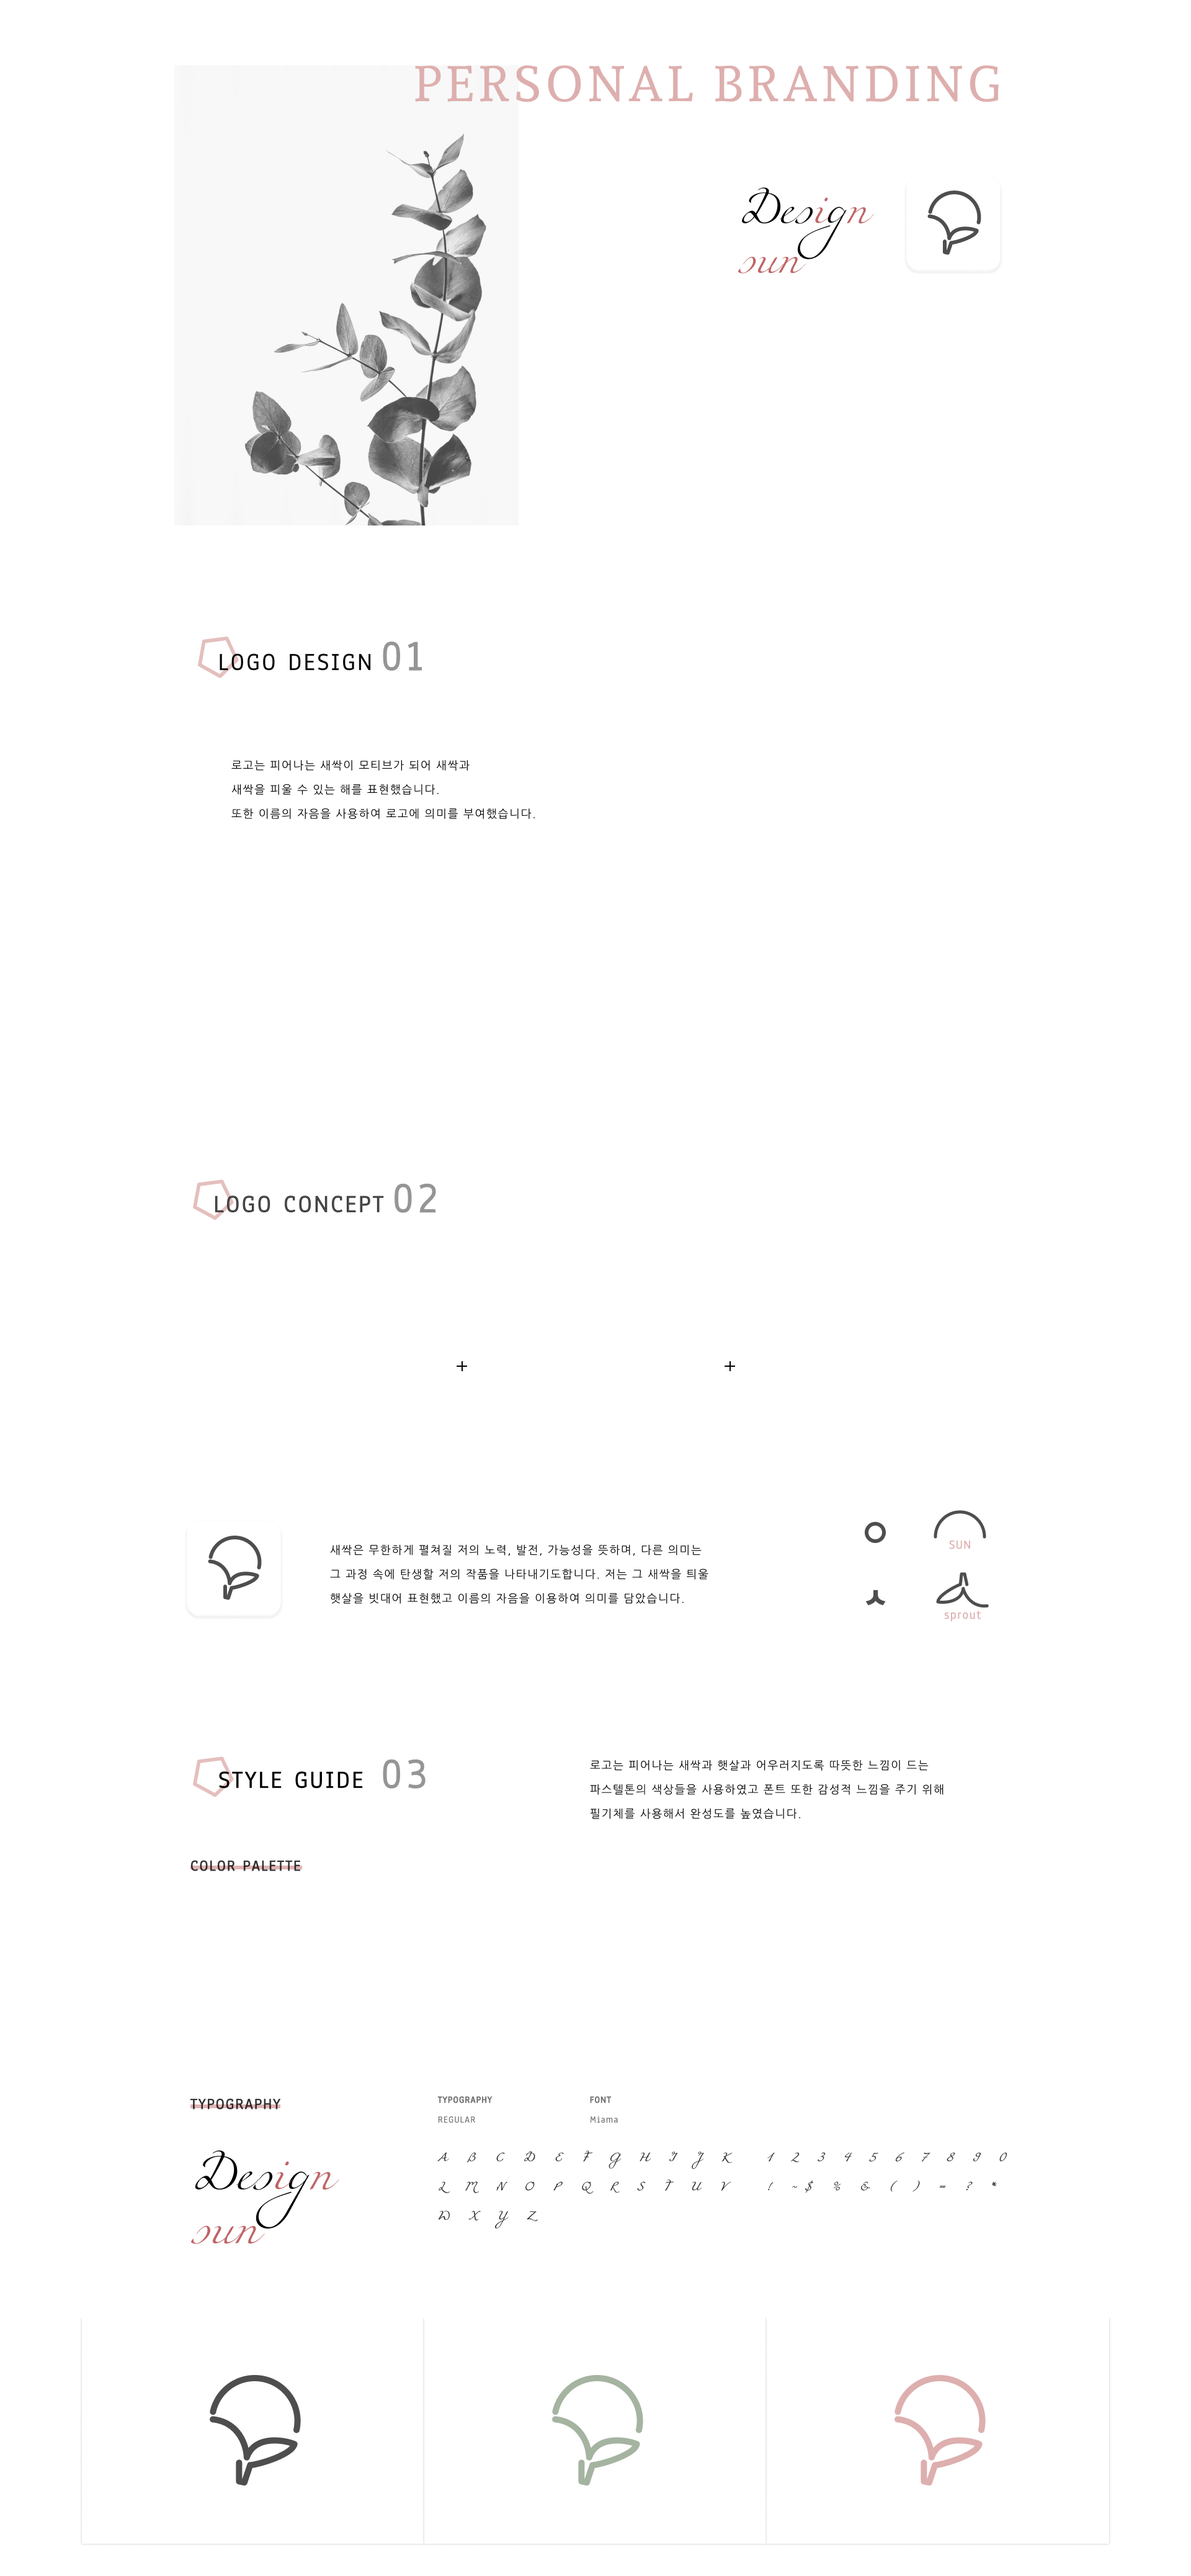
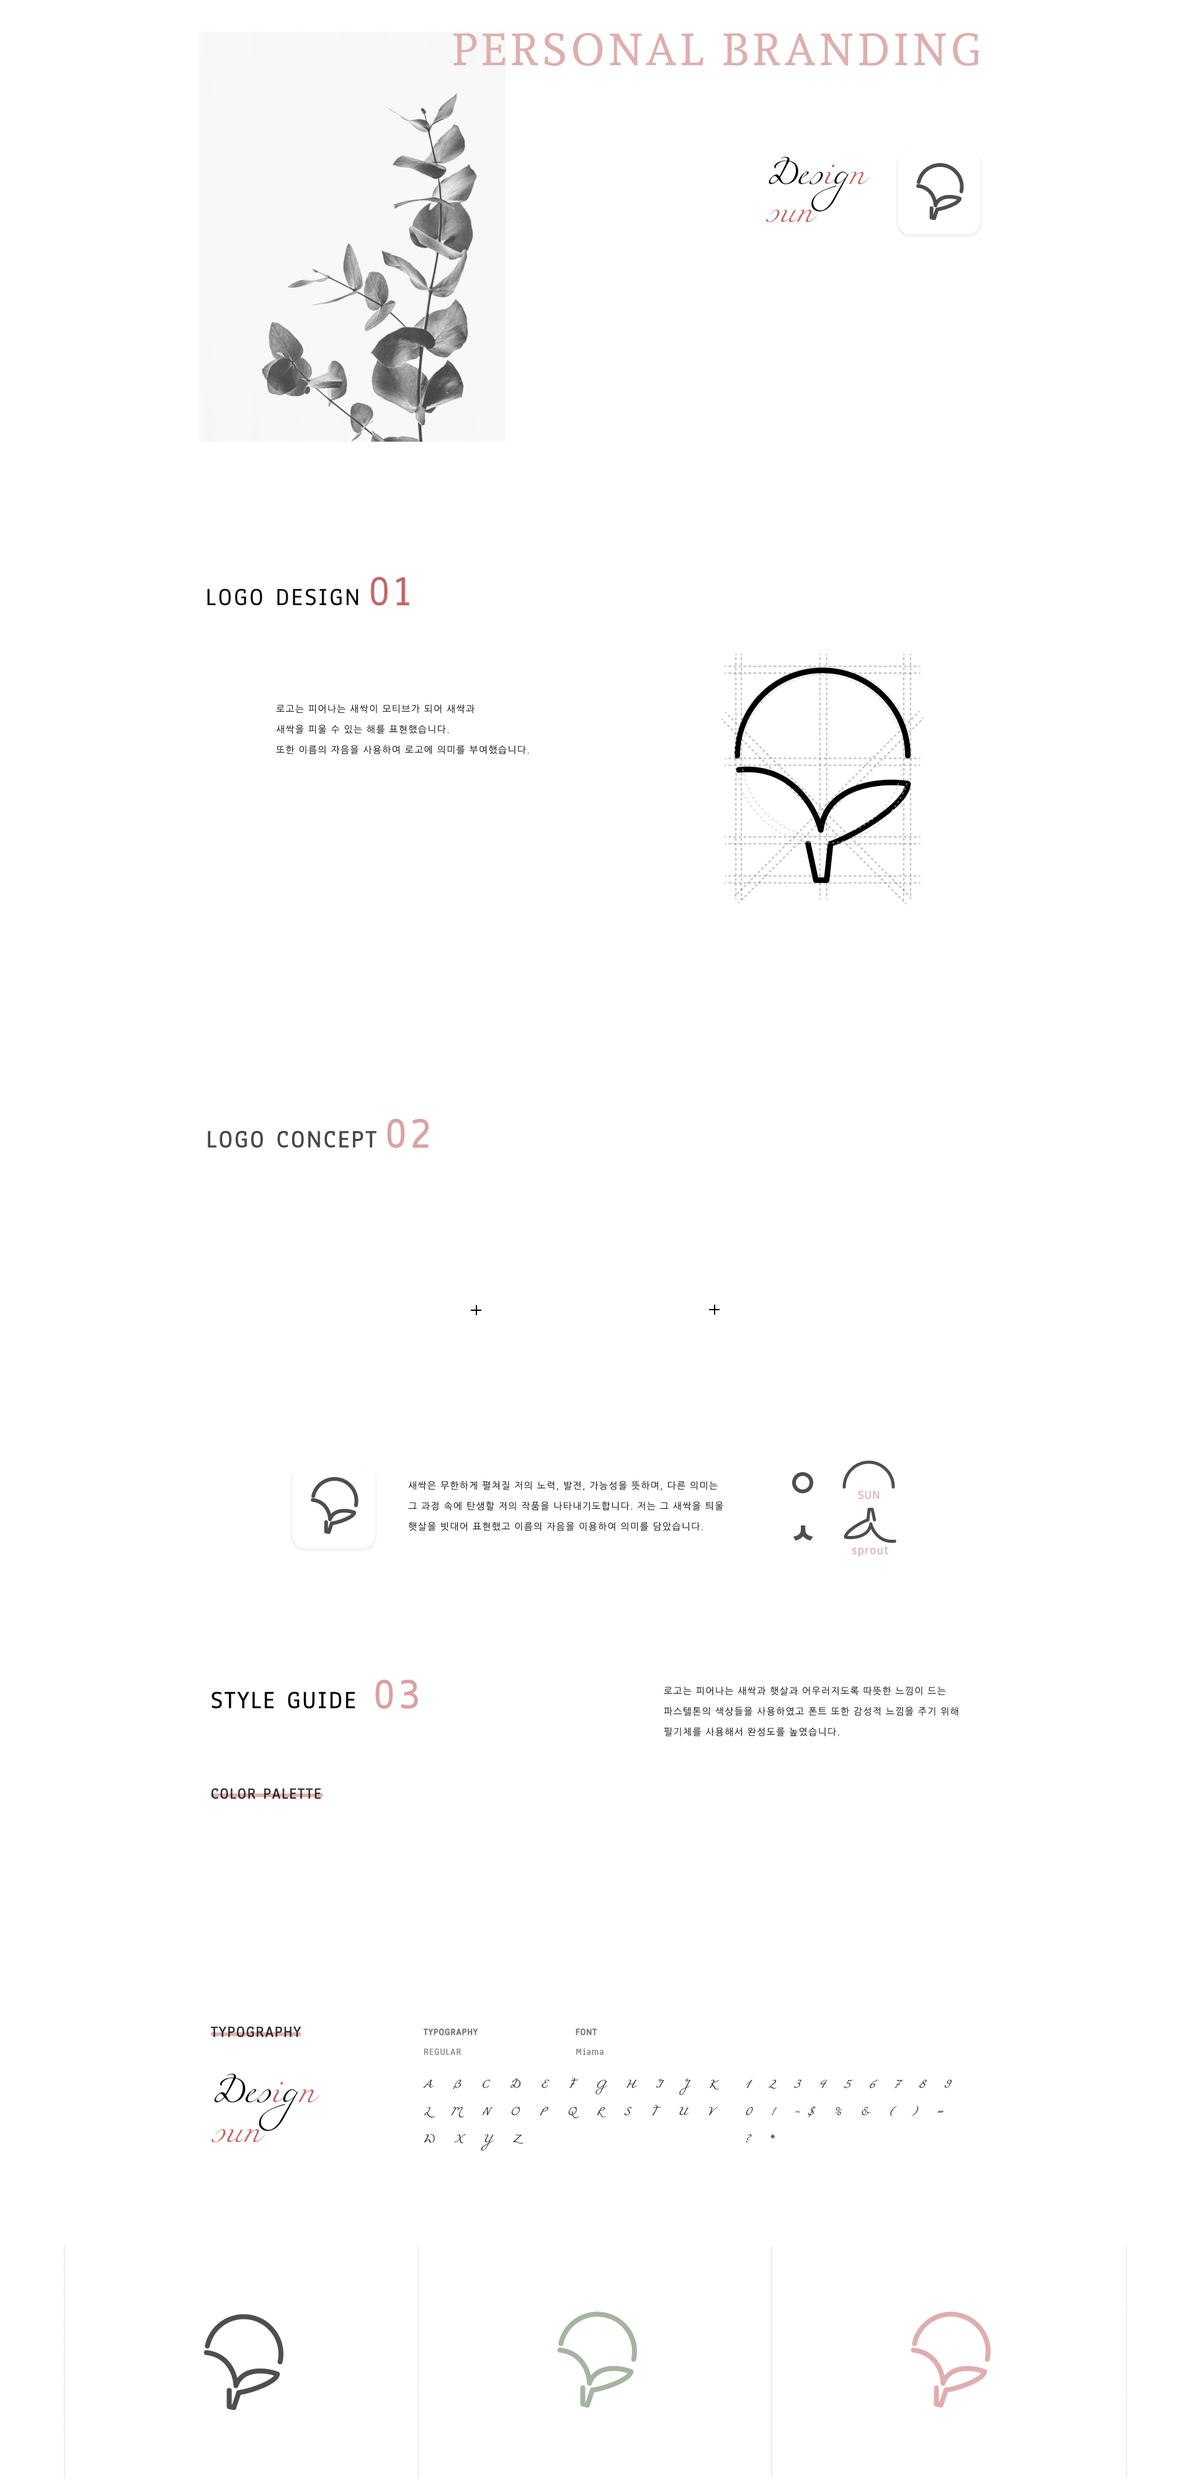
브랜드 수정

diff --git a/docs/js/index.js b/docs/js/index.js
@@ -119,7 +119,7 @@ function Play_AnimationInit() {
     duration: 1.1
   });
 
-  gsap.fromTo('.logo-sun, .logo-sprout, .logo-name', {
+  gsap.fromTo('.logo-sun', {
     opacity: 0,
     y: 70,
   }, {
@@ -132,6 +132,37 @@ function Play_AnimationInit() {
     },
     duration: 1
   });
+
+  gsap.fromTo('.logo-sprout', {
+    opacity: 0,
+    y: 70,
+  }, {
+    opacity: 1,
+    y: 0,
+    delay: 0.3,
+    scrollTrigger: {
+      trigger: '.BH-2',
+      start: '-10% 0%',
+      end: '100% 30%'
+    },
+    duration: 1
+  });
+
+  gsap.fromTo('.logo-name', {
+    opacity: 0,
+    y: 70,
+  }, {
+    opacity: 1,
+    y: 0,
+    delay: 0.6,
+    scrollTrigger: {
+      trigger: '.BH-2',
+      start: '-10% 0%',
+      end: '100% 30%'
+    },
+    duration: 1
+  });
+
 
   gsap.fromTo('.logo-color2', {
     opacity: 0,

diff --git a/js/index.js b/js/index.js
@@ -119,7 +119,7 @@ function Play_AnimationInit() {
     duration: 1.1
   });
 
-  gsap.fromTo('.logo-sun, .logo-sprout, .logo-name', {
+  gsap.fromTo('.logo-sun', {
     opacity: 0,
     y: 70,
   }, {
@@ -132,6 +132,37 @@ function Play_AnimationInit() {
     },
     duration: 1
   });
+
+  gsap.fromTo('.logo-sprout', {
+    opacity: 0,
+    y: 70,
+  }, {
+    opacity: 1,
+    y: 0,
+    delay: 0.3,
+    scrollTrigger: {
+      trigger: '.BH-2',
+      start: '-10% 0%',
+      end: '100% 30%'
+    },
+    duration: 1
+  });
+
+  gsap.fromTo('.logo-name', {
+    opacity: 0,
+    y: 70,
+  }, {
+    opacity: 1,
+    y: 0,
+    delay: 0.6,
+    scrollTrigger: {
+      trigger: '.BH-2',
+      start: '-10% 0%',
+      end: '100% 30%'
+    },
+    duration: 1
+  });
+
 
   gsap.fromTo('.logo-color2', {
     opacity: 0,

diff --git a/css/index.css b/css/index.css
@@ -867,52 +867,47 @@ footer {
 }
 
 .logo-write {
-  top: 16.6%;
+  top: 14.8%;
   left: 50%;
-  width: 30%;
-}
-
-.logo-ex {
-  top: 27%;
-  left: 62%;
-  width: 30%;
+  width: 25%;
 }
 
 .logo-ex1 {
-  top: 37%;
+  top: 34%;
   left: 17%;
-  width: 8%;
+  width: 7%;
   opacity: 0;
 }
 
 .logo-ex2 {
-  top: 37%;
-  left: 28%;
-  width: 8%;
+  top: 34%;
+  left: 27%;
+  width: 7%;
   opacity: 0;
 }
 
 .logo-ex3 {
-  top: 37%;
-  left: 39%;
-  width: 8%;
+  top: 34%;
+  left: 38%;
+  width: 7%;
   opacity: 0;
 }
 
 .logo-sun {
   top: 50%;
-  left: 20.1%;
+  left: 24%;
   width: 15%;
 }
 
 .logo-sprout {
   top: 50%;
+  left: 44%;
   width: 15%;
 }
 
 .logo-name {
   top: 50%;
-  left: 65.8%;
+  left: 64%;
   width: 15%;
 }
 

diff --git a/docs/css/index.css b/docs/css/index.css
@@ -867,52 +867,47 @@ footer {
 }
 
 .logo-write {
-  top: 16.6%;
+  top: 14.8%;
   left: 50%;
-  width: 30%;
-}
-
-.logo-ex {
-  top: 27%;
-  left: 62%;
-  width: 30%;
+  width: 25%;
 }
 
 .logo-ex1 {
-  top: 37%;
+  top: 34%;
   left: 17%;
-  width: 8%;
+  width: 7%;
   opacity: 0;
 }
 
 .logo-ex2 {
-  top: 37%;
-  left: 28%;
-  width: 8%;
+  top: 34%;
+  left: 27%;
+  width: 7%;
   opacity: 0;
 }
 
 .logo-ex3 {
-  top: 37%;
-  left: 39%;
-  width: 8%;
+  top: 34%;
+  left: 38%;
+  width: 7%;
   opacity: 0;
 }
 
 .logo-sun {
   top: 50%;
-  left: 20.1%;
+  left: 24%;
   width: 15%;
 }
 
 .logo-sprout {
   top: 50%;
+  left: 44%;
   width: 15%;
 }
 
 .logo-name {
   top: 50%;
-  left: 65.8%;
+  left: 64%;
   width: 15%;
 }
 

diff --git a/docs/brand.html b/docs/brand.html
@@ -85,9 +85,9 @@
     <img src="./img/logo-write.png" alt="">
   </div>
 
-  <div class="absolute logo-ex">
+  <!-- <div class="absolute logo-ex">
     <img src="./img/logo-ex.png" alt="">
-  </div>
+  </div> -->
 
   <div class="absolute logo-ex1">
     <img src="./img/logo-ex1.png" alt="">

diff --git a/brand.ssg.php b/brand.ssg.php
@@ -37,9 +37,9 @@ require_once "head.php";
     <img src="./img/logo-write.png" alt="">
   </div>
 
-  <div class="absolute logo-ex">
+  <!-- <div class="absolute logo-ex">
     <img src="./img/logo-ex.png" alt="">
-  </div>
+  </div> -->
 
   <div class="absolute logo-ex1">
     <img src="./img/logo-ex1.png" alt="">
